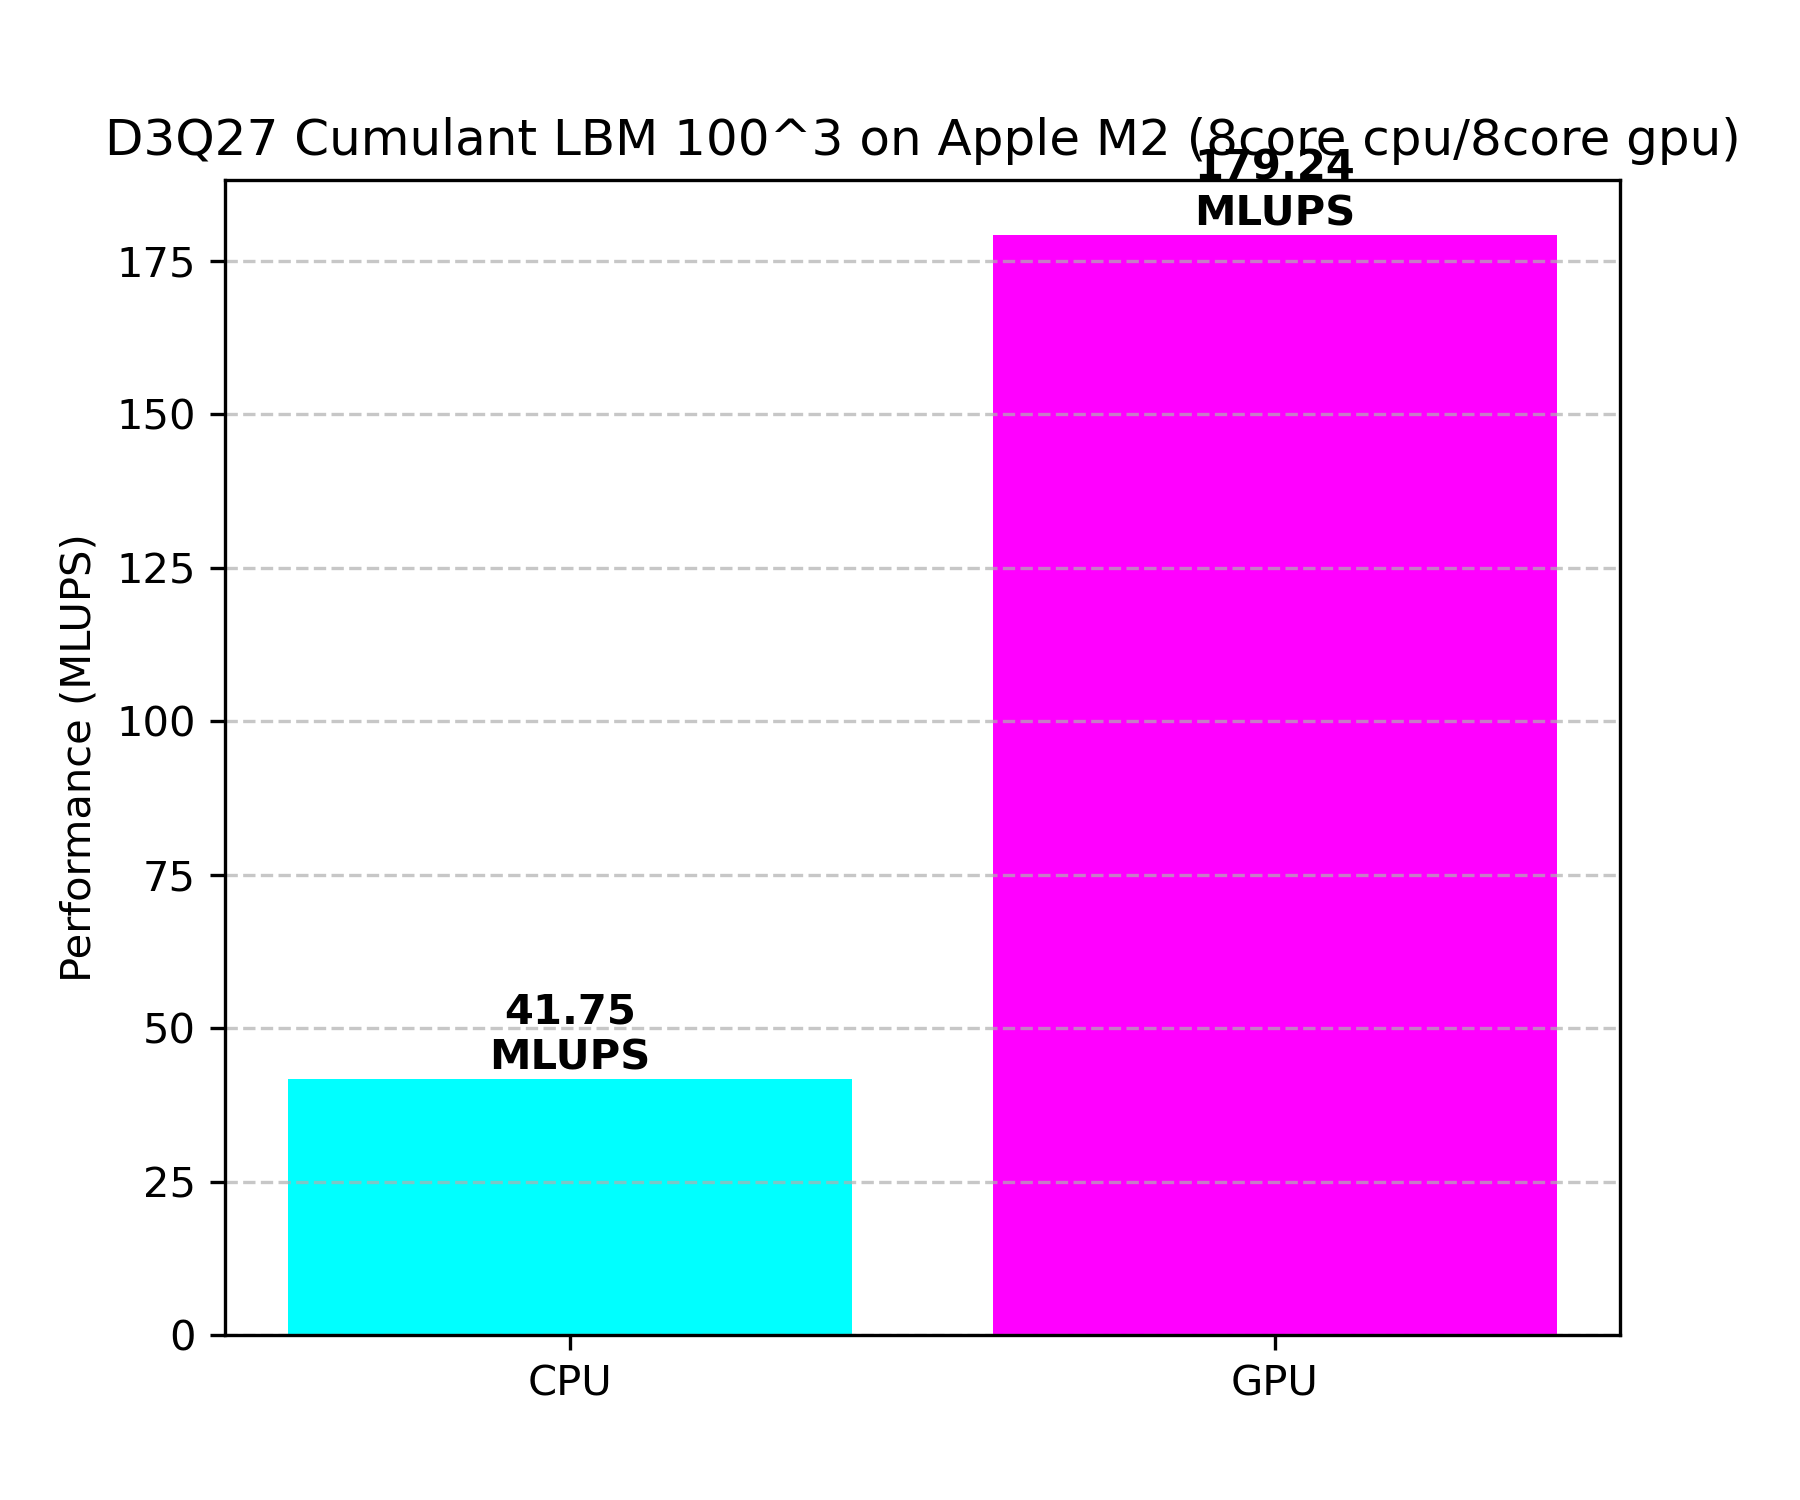
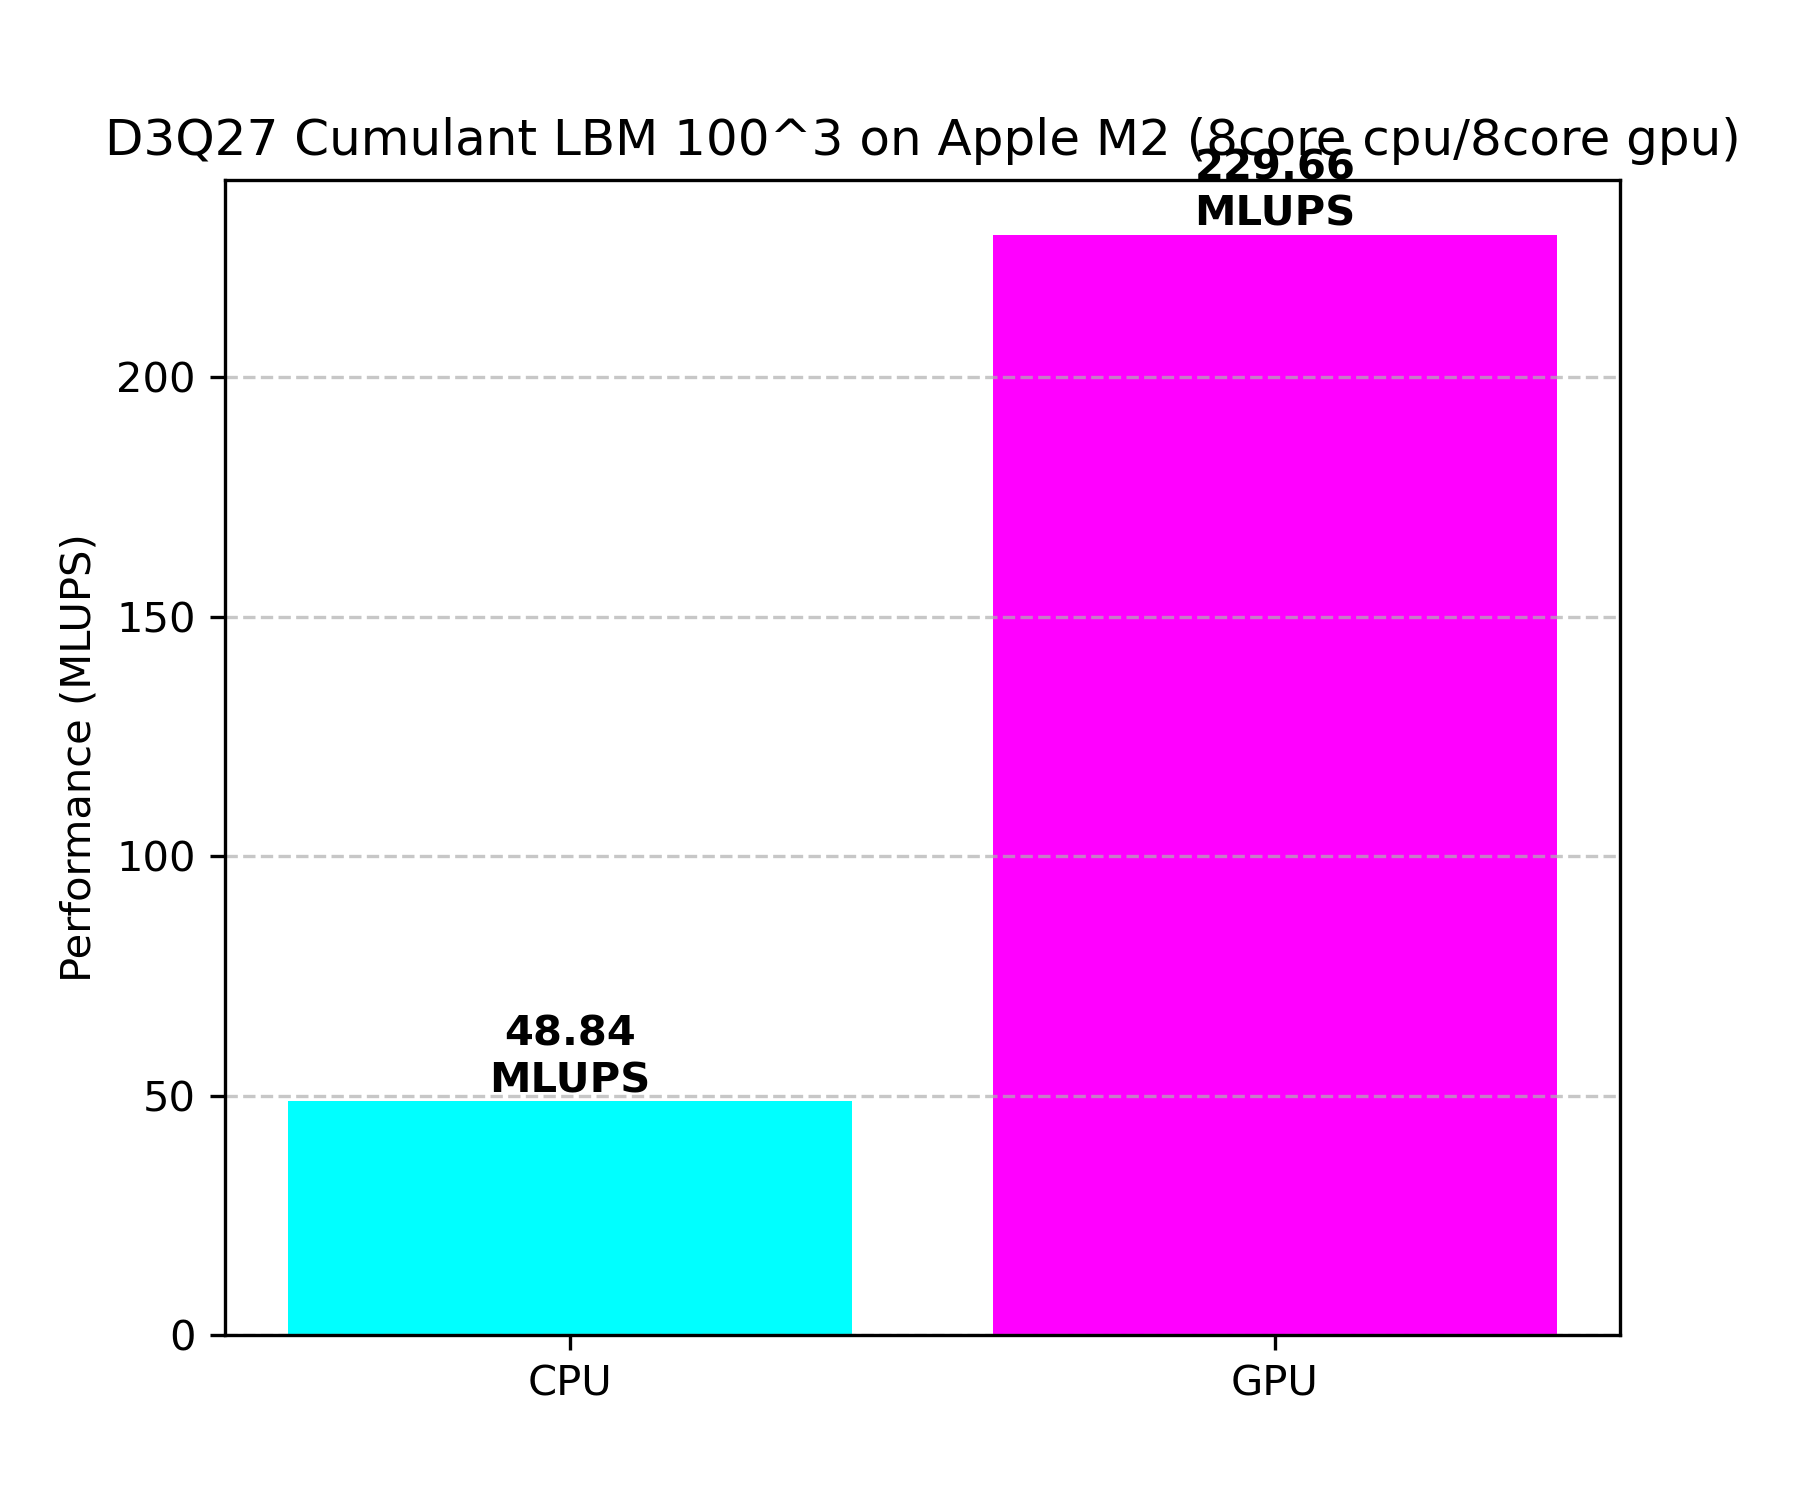
SoA allocation corrected in lbm_lib.py

diff --git a/lb_solver/lbm_lib.py b/lb_solver/lbm_lib.py
@@ -27,7 +27,8 @@ class lbm_skelton:
         self,
         nd,  # domain size (nx, ny) or (nx, ny, nz)
         model_config,
-        omega1=None # relaxation parameter for shear (omega_{1})
+        omega1=None, # relaxation parameter for shear (omega_{1})
+        SoA = True # default SoA layout; False->AoS
     ):
         self.nd = nd
         self.dim = len(nd)
@@ -43,18 +44,28 @@ class lbm_skelton:
             self.omega[i] = 1.0
         self.omega[1] = 1.0 if omega1 == None else omega1
         self.rho = ti.field(float, shape=self.nd)
-        # - - - - - SoA memory layout - - - - - - - - - #
-        self.ti_axes = ti.ij if self.dim == 2 else ti.ijk
-        self.vel = ti.Vector.field(self.dim, float)
-        for d in range(self.dim):
-            ti.root.dense(self.ti_axes, self.nd).place(self.vel.get_scalar_field(d))
-        self.f_old = ti.Vector.field(self.Q, float)
-        self.f_new = ti.Vector.field(self.Q, float)
-        block = ti.root.dense(self.ti_axes, self.nd)
-        for q in range(self.Q): 
-            block.place(self.f_old.get_scalar_field(q))
-        for q in range(self.Q): # allocation must be done with another for loop
-            block.place(self.f_new.get_scalar_field(q))
+        if SoA:
+            # - - - - - SoA memory layout - - - - - - - - - #
+            self.ti_axes = ti.ij if self.dim == 2 else ti.ijk
+            self.vel = ti.Vector.field(self.dim, float)
+            for d in range(self.dim):
+                ti.root.dense(self.ti_axes, self.nd).place(self.vel.get_scalar_field(d))
+
+            self.f_old = ti.Vector.field(self.Q, float)
+            self.f_new = ti.Vector.field(self.Q, float)
+
+            block_old = ti.root.dense(self.ti_axes, self.nd)
+            for q in range(self.Q): 
+                block_old.place(self.f_old.get_scalar_field(q))
+
+            block_new = ti.root.dense(self.ti_axes, self.nd)
+            for q in range(self.Q): # allocation must be done with another for loop
+                block_new.place(self.f_new.get_scalar_field(q))
+        else:
+            # - - - - - AoS memory layout - - - - - - - - - #
+            self.vel   = ti.Vector.field(self.dim, float, shape=self.nd)
+            self.f_old = ti.Vector.field(self.Q, float, shape=self.nd)
+            self.f_new = ti.Vector.field(self.Q, float, shape=self.nd)
         # - - - - - - - - - - - - - - - - - - - - - - - #
         self.mask = ti.field(float, shape=self.nd)
         # - - - - - - - - - - - - - - - - - - - - - - - #